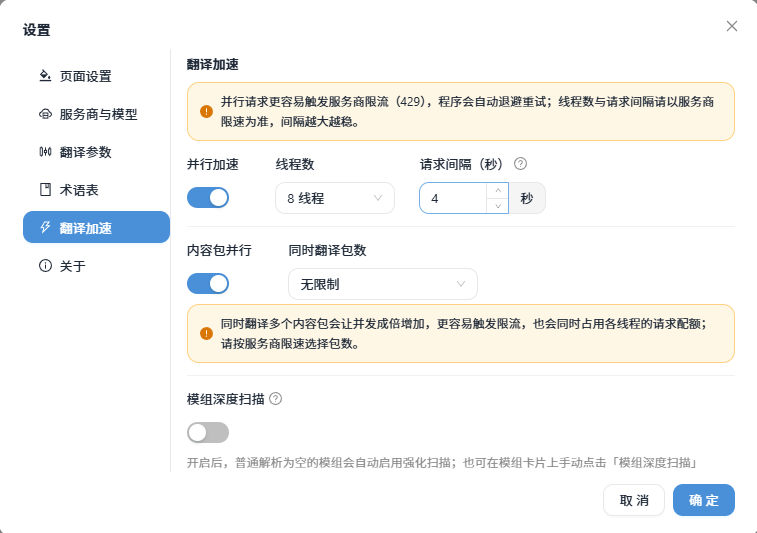
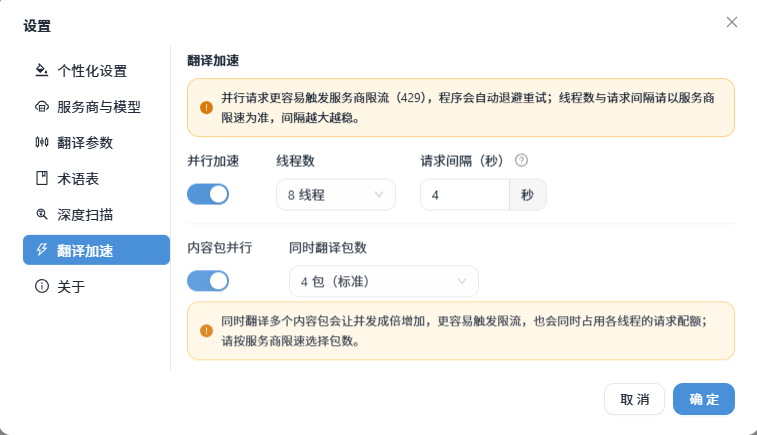
docs: 补充/替换 3.1.0 截图（单包深度扫描、翻译加速、三个清理弹窗）
- 替换 docs/翻译加速.png：该页已不含深度扫描开关（移入独立设置页）
- 新增 docs/单包深度扫描.png：插在「单包覆盖」条目下，说明卡片扫描按钮与齿轮入口
- 新增三个清理流程截图：清除缓存确认框、清除用户数据第一步（说明范围）、
  第二步危险确认（勾选框与「执行清除」的联动），插在「本地数据位置」章节的对应步骤旁
- 修正图片与列表项之间的空行，避免 Markdown 把下一条列表项并入图片段落

diff --git a/README.md b/README.md
@@ -106,7 +106,7 @@ MC 汉化工坊基于 Tauri v2 + React + TypeScript + Rust 构建，当前发布
 
 ### 翻译加速
 
-设置 →「翻译加速」：
+设置 →「翻译加速」（深度扫描开关已从这一页移出，独立成「深度扫描」页）：
 
 ![翻译加速设置](docs/翻译加速.png)
 
@@ -143,6 +143,11 @@ MC 汉化工坊基于 Tauri v2 + React + TypeScript + Rust 构建，当前发布
 
 - **模板**：`推荐`（默认）、`精简`（只扫常规文本）、`全量（旧行为）`（含代码内嵌、关闭全部降噪过滤）。
 - **单包覆盖**：内容包卡片上悬停扫描按钮可见当前规则摘要与「本包含单独配置」；点齿轮为该包单独调整（只保存与全局的差异，不改动全局设置）。单包配置是**临时性**的：只保留在内存中、不写入设置文件，关闭软件或重新导入即回到全局规则；弹窗左下角的「跟随全局设置」可一键清除该包的单独配置。全局规则（设置 → 深度扫描）才会持久化到磁盘。
+
+内容包卡片上的深度扫描按钮（悬停后出现齿轮，齿轮即单包规则入口）：
+
+![单包深度扫描](docs/单包深度扫描.png)
+
 - **重扫合并**：按条目 key 合并，已有译文、勾选状态全部保留；规则变更后不再产出的条目若已有译文会保留并标注「规则已排除」。
 - **固定项**：嵌套深度 3 层、文本长度 3–200 由引擎固定，不对外开放以免误调导致扫描异常。
 
@@ -290,7 +295,7 @@ v2.0 起内置 11 家服务商预设（智谱 / 通义 / DeepSeek / 火山豆包
 - **没有日志文件**：程序不写日志，错误只输出到控制台，窗口关闭即消失；中断翻译没有中间文件残留。
 - **备份建议**：想保留译文与设置，备份 `%APPDATA%\com.administrator.mod-translator\` 整个目录即可（注意 `settings.json` 中 API Key 为明文，勿随意外传）。
 
-「关于 → 本地数据」面板（下面两个按钮就是清理入口）：
+「关于 → 本地数据」面板（下面两个按钮就是清理入口；面板上会显示缓存与用户数据各自占用、以及数据目录，可一键复制）：
 
 ![关于页的本地数据清理](docs/关于设置页面清除数据功能.png)
 
@@ -298,6 +303,21 @@ v2.0 起内置 11 家服务商预设（智谱 / 通义 / DeepSeek / 火山豆包
   - **清除缓存**（1 次确认）：删会话缓存（上次的内容包列表快照）与 WebView2 浏览器缓存；设置、API Key 与已导出的产物都不受影响。会话快照删掉后，下次启动不会再询问「恢复上次列表」。
   - **清除用户数据**（2 次确认，第二步必须勾选「我已确认」才能执行）：连 API Key、全部设置、术语表、AI 命名缓存一并删除，等于回到全新安装状态；清理完成后会提示重启，可一键重启。
   - 两档都**只作用于软件自己的数据目录**（上表两处，由程序按应用标识符解析，不接受任何外部路径）：游戏目录、导出目录、其他软件的文件一律不会被触碰。程序还会逐个校验目标路径确实位于这两个目录之内，路径不合法的一律跳过，被占用的条目跳过并在界面如实提示。
+
+**清除缓存**：一次确认，确认框里写明会删什么、不会动什么：
+
+![清除缓存弹窗](docs/清除缓存弹窗.png)
+
+**清除用户数据**共两步。第一步说明删除范围，点「继续」进入第二步：
+
+![清除用户数据第一步](docs/清除数据第一次弹窗.png)
+
+第二步是最后一道闸门：标题直接问「你确定你在干什么吗？」，**必须勾选下方那句「我已确认：删除以上全部数据，且无法恢复」，「执行清除」按钮才会变为可点击**，否则只能取消：
+
+![清除用户数据第二步确认](docs/清除用户数据第二次确认弹窗.png)
+
+清理完成后会提示释放了多少空间，并提供「立即重启」让设置与浏览器配置回到全新状态；若有条目正被占用，会提示哪些被跳过（正常关闭软件后再清一次即可）。
+
 - **卸载提示**：安装包卸载时不会自动删除上述用户目录，可在卸载前用「清除用户数据」先清干净。
 
 ---
